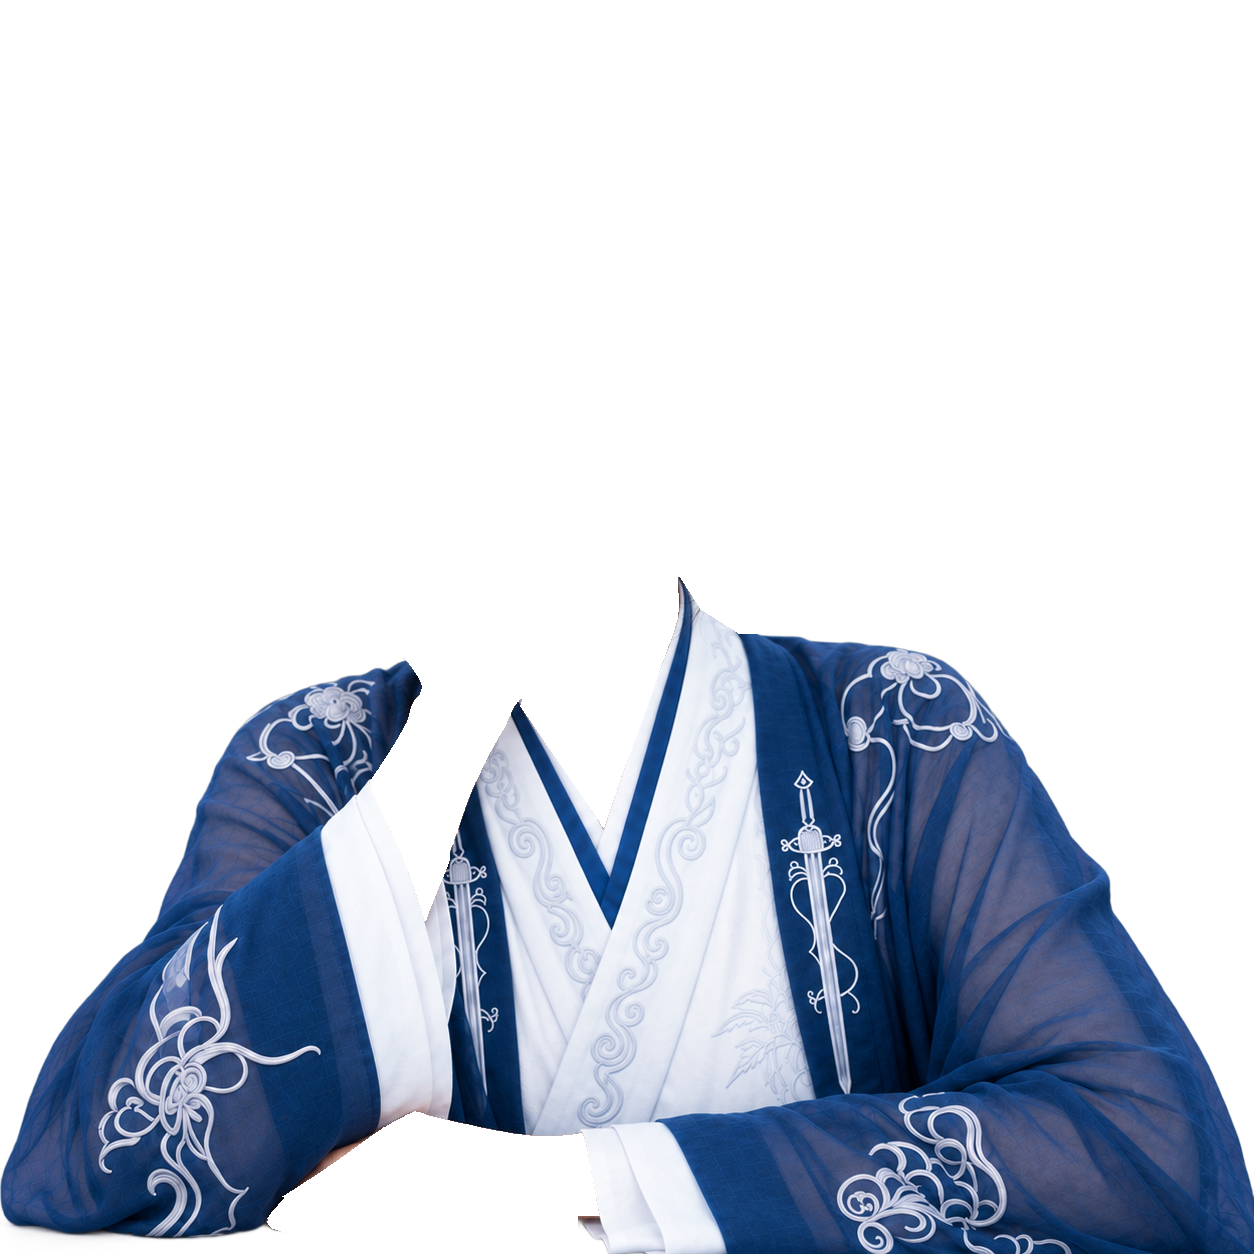
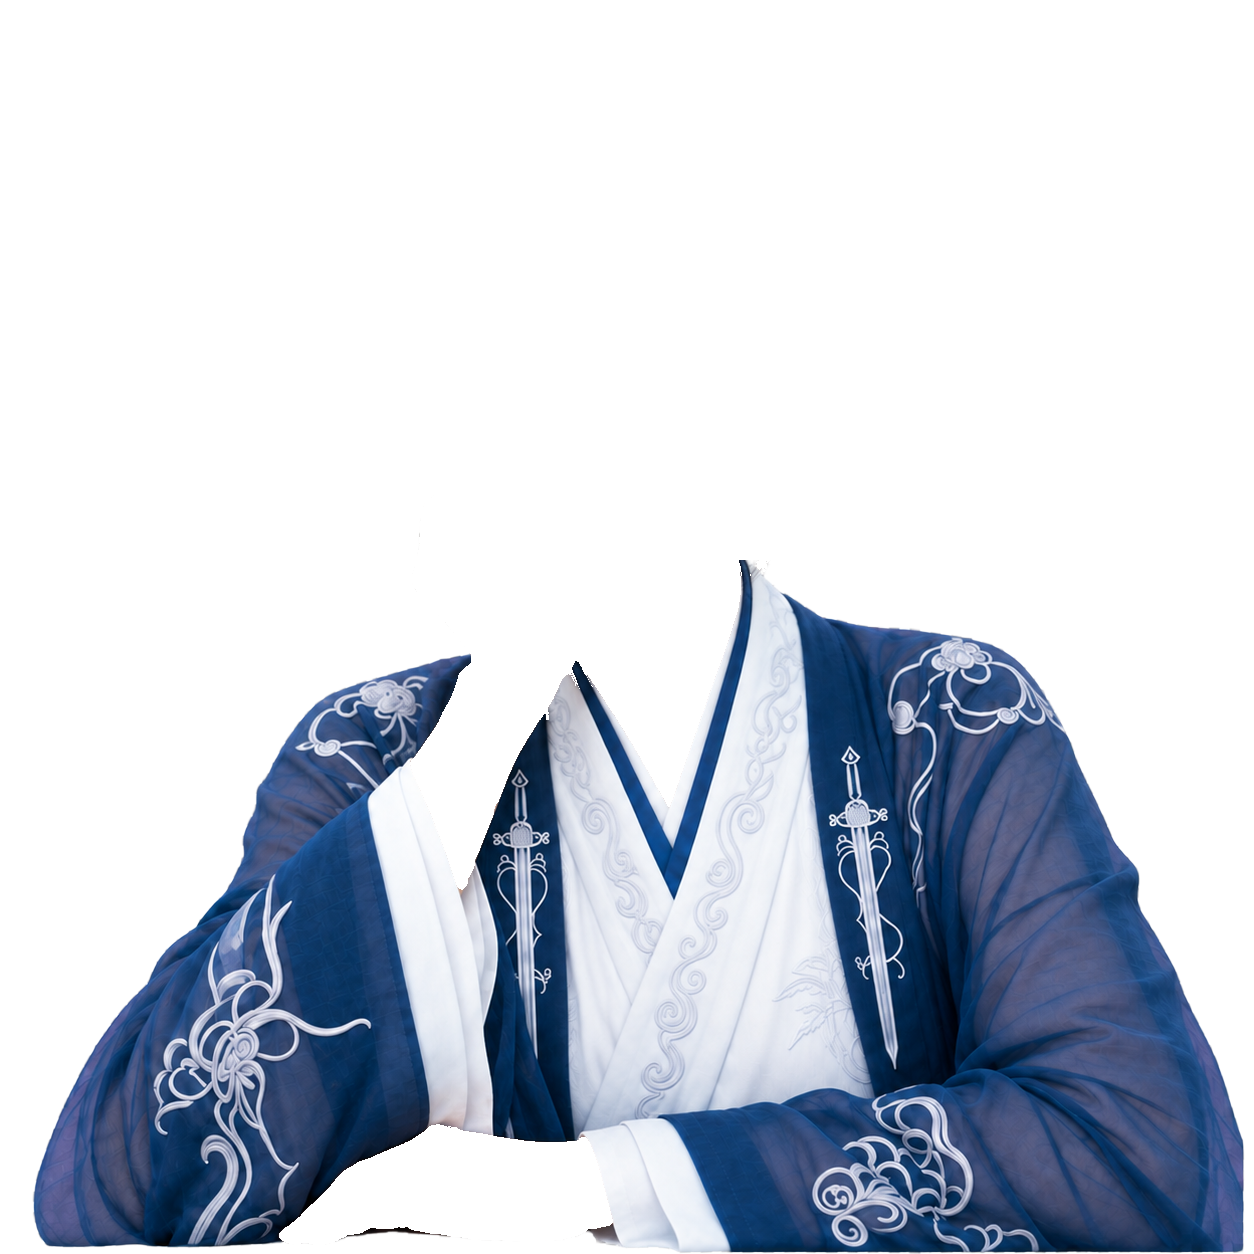
托腮姿勢回復已核准的原生肖像與漢服／托腮姿势恢复已核准的原生肖像与汉服／Restore the approved native portrait and hanfu for the cheek-rest pose／頬杖ポーズを承認済みのネイティブ肖像と漢服に戻す

Changed region(s): [[0.0, 0.4354, 1.0, 1.0], [0.2799, 0.9641, 0.3421, 0.9952]]

diff --git a/tests/test_expression_blink_source_binding.py b/tests/test_expression_blink_source_binding.py
@@ -176,14 +176,11 @@ def test_caught_has_no_matching_source_while_its_pose_endpoint_does(window) -> N
     assert (
         window.expression_pixmaps.get(f"{UNBOUND_EXPRESSION}_closed") is None
     )
-    # cheek-rest now carries an installed complete-expression set (half-body
-    # blink v4, INSTALL-2 2026-09-28): per has_native_motion()'s own
-    # documented contract (reviewed_pose_overlay.py), a pose whose declared
-    # dynamic source is the complete-expression set reports False -- its
-    # dynamics come from that set instead of the retained reviewed motion
-    # root. This used to be True back when cheek-rest had no
-    # complete-expression source and the retained root answered directly.
-    assert _outfit_overlay(window).has_native_motion(view_id) is False
+    # Owner ruling 2026-09-29: cheek-rest returns to the main formal picture and
+    # is no longer bound by the complete-expression manifest, so the retained
+    # reviewed motion root answers for it again (has_native_motion() is True, as
+    # on main).
+    assert _outfit_overlay(window).has_native_motion(view_id) is True
 
 
 def test_unbound_portrait_is_untouched_by_a_half_blink(window) -> None:
@@ -242,11 +239,10 @@ def test_pose_bound_native_endpoint_still_blinks_its_own_neutral_portrait(
     window,
 ) -> None:
     """The neutral cheek portrait must still blink correctly, whichever
-    source now answers for it. cheek-rest carries an installed
-    complete-expression set (half-body blink v4, INSTALL-2 2026-09-28), so
-    has_native_motion() now reports False here too (its own documented
-    contract: a complete-expression source takes over from the retained
-    reviewed motion root) -- this test's job is to prove the actual blink
+    source answers for it. Owner ruling 2026-09-29: cheek-rest is not bound by
+    the complete-expression manifest, so the retained reviewed motion root
+    answers (has_native_motion() is True, as on main) -- this test's job is to
+    prove the actual blink
     compositing still lands correctly regardless of which source answers.
     """
 
@@ -256,7 +252,7 @@ def test_pose_bound_native_endpoint_still_blinks_its_own_neutral_portrait(
         is None
     )
     view_id = outfit_silhouette(NATIVE_NEUTRAL_EXPRESSION, NATIVE_NEUTRAL_POSE)
-    assert _outfit_overlay(window).has_native_motion(view_id) is False
+    assert _outfit_overlay(window).has_native_motion(view_id) is True
     window.state = "idle"
     base = window.expression_pixmaps[NATIVE_NEUTRAL_EXPRESSION]
 

diff --git a/tests/test_expression_speech_runtime.py b/tests/test_expression_speech_runtime.py
@@ -75,11 +75,13 @@ def stop_automatic_timers(window: CompanionWindow) -> None:
 def assert_blink_mask_contract(window: CompanionWindow) -> None:
     # Idle, speech and expression blinks share the same wide eye mask.
     assert window.dedicated_blink_masks is window.blink_masks
-    # Owner-approved round14g redraw v4 (owner-final-approval-20260928.json).
+    # Owner-approved round14g redraw v4 (owner-final-approval-20260928.json) for
+    # lean/front; cheek-rest is not on the complete-expression route (owner ruling
+    # 2026-09-29), so cheek keeps the main formal region.
     assert window.dedicated_blink_regions == {
         "cheek": (
-            QRect(160, 153, 55, 38),
-            QRect(198, 153, 70, 45),
+            QRect(160, 153, 55, 34),
+            QRect(198, 153, 61, 34),
         ),
         "lean": (
             QRect(153, 153, 55, 35),

diff --git a/presentation/companion_face_assets.py b/presentation/companion_face_assets.py
@@ -178,11 +178,13 @@ class CompanionFaceAssetMethods(CompanionBlinkCompositeMethods):
     @staticmethod
     def _blink_regions() -> frozendict[str, tuple[QRect, QRect]]:
         # Owner-approved round14g redraw v4 (owner-final-approval-20260928.json,
-        # INSTALL-1 code_changes_authorized: "half-body blink regions").
+        # INSTALL-1 code_changes_authorized: "half-body blink regions") for lean/front.
+        # cheek-rest is not on the complete-expression route (owner ruling
+        # 2026-09-29) and keeps the main formal region.
         return frozendict({
             "cheek": (
-                QRect(160, 153, 55, 38),
-                QRect(198, 153, 70, 45),
+                QRect(160, 153, 55, 34),
+                QRect(198, 153, 61, 34),
             ),
             "lean": (
                 QRect(153, 153, 55, 35),

diff --git a/changelog.d/pr-200-cheek-rest-restore.md b/changelog.d/pr-200-cheek-rest-restore.md
@@ -1,0 +1,3 @@
+### 托腮姿勢回復已核准的原生肖像與漢服／托腮姿势恢复已核准的原生肖像与汉服／Restore the approved native portrait and hanfu for the cheek-rest pose／頬杖ポーズを承認済みのネイティブ肖像と漢服に戻す
+
+- 托腮姿勢不再使用新的完整表情畫格，改回擁有者核准的原生肖像、漢服圖層與眨眼範圍，修正兩隻右手與頭頸不相連的問題。／托腮姿势不再使用新的完整表情画格，改回拥有者核准的原生肖像、汉服图层与眨眼范围，修正两只右手与头颈不相连的问题。／The cheek-rest pose no longer uses the new complete-expression frames and returns to the owner-approved native portrait, hanfu layers and blink regions, fixing the doubled right hand and the head that did not connect to the neck.／頬杖ポーズは新しい完全表情フレームを使わず、オーナー承認済みのネイティブ肖像、漢服レイヤー、まばたき範囲に戻し、右手が二つになる問題と頭が首につながらない問題を修正しました。
